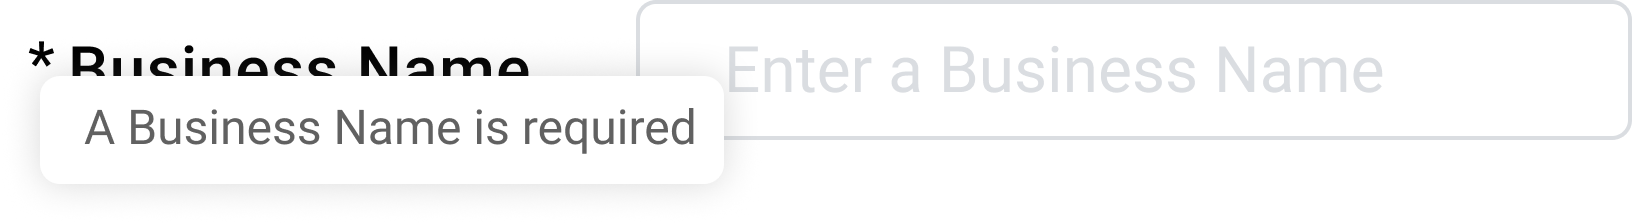
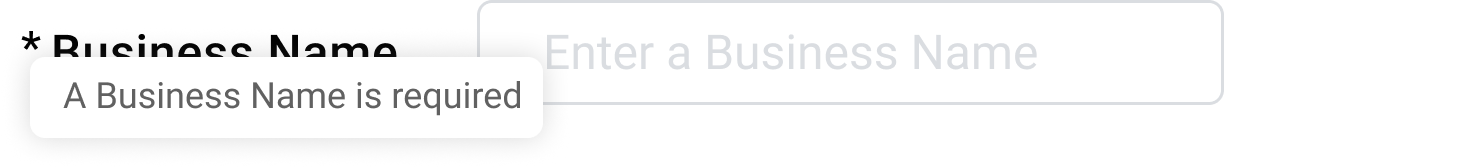
improved a360 property images ... removed a resize hack bc of this

diff --git a/src/pages/a360.tsx b/src/pages/a360.tsx
@@ -62,7 +62,6 @@ const A360 = () => (
                 <PropertyExample
                     title="<BaseProperty />"
                     img={base}
-                    widthPx="157" // 628
                     subtitle="In the example above, Favorite Fruit is the label and an image of a fig is the value"
                 />
             </div>
@@ -73,37 +72,31 @@ const A360 = () => (
                 <PropertyExample
                     title="<TextProperty />"
                     img={text}
-                    widthPx="450" // 1200
                     subtitle="Renders the value as a text input when in edit mode and regular text when in readonly mode"
                 />
                 <PropertyExample
                     title="<TextAreaProperty />"
                     img={description}
-                    widthPx="557" // 2228
                     subtitle="Renders the value as a resizable text area input when in edit mode and regular text when in readonly mode"
                 />
                 <PropertyExample
                     title="<BusinessNameProperty />"
                     img={business}
-                    widthPx="408" // 1632 
                     subtitle="The user is required to fill this in, as denoted by the star"
                 />
                 <PropertyExample
                     title="<IdentifyingNameProperty />"
                     img={identifying}
-                    widthPx="449" // 1796
                     subtitle="This property has custom validation logic relevant to an Identifying Name built into it "
                 />
                 <PropertyExample
                     title="<DropdownProperty />"
                     img={dropdown}
-                    widthPx="292" // 1168
                     subtitle="Renders the value as a dropdown of passed in options when in edit mode"
                 />
                 <PropertyExample
                     title="<CheckboxProperty />"
                     img={checkbox}
-                    widthPx="110" // 440
                     subtitle="Renders the value as a checkbox which can be toggled when in edit mode"
                 />
             </div>

diff --git a/src/components/a360/PropertyExample.tsx b/src/components/a360/PropertyExample.tsx
@@ -4,10 +4,9 @@ interface PropertyExampleProps {
     title: string,
     img: string,
     subtitle: string,
-    widthPx: string,
 }
 
-const PropertyExample = ({ title, img, subtitle, widthPx }: PropertyExampleProps) => {
+const PropertyExample = ({ title, img, subtitle }: PropertyExampleProps) => {
     return (
         <div className={"bg-slate-50 p-5 rounded-md flex flex-col gap-[15px]"}>
             <div className={"text-sm font-mono"}>
@@ -17,7 +16,7 @@ const PropertyExample = ({ title, img, subtitle, widthPx }: PropertyExampleProps
                 {subtitle}
             </div>
             <div>
-                <img style={{ maxWidth: `${widthPx}px` }} className="w-full" src={img} alt={"alt"} />
+                <img className="max-w-[500px] w-full" src={img} alt={"alt"} />
             </div>
 
         </div>
